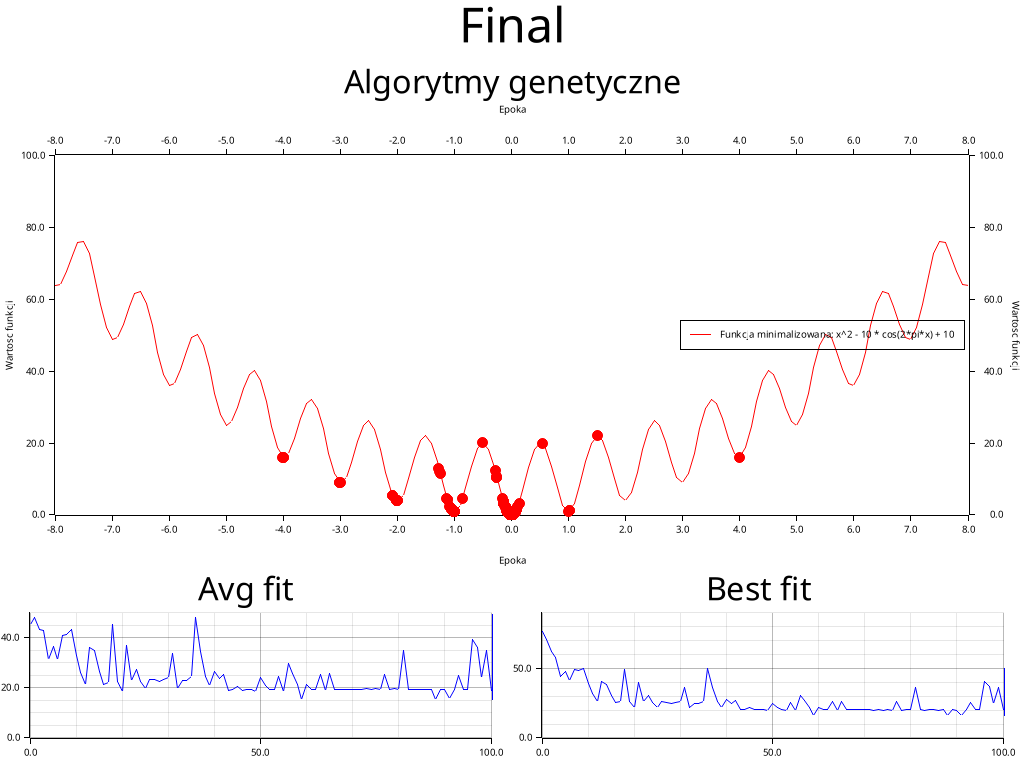
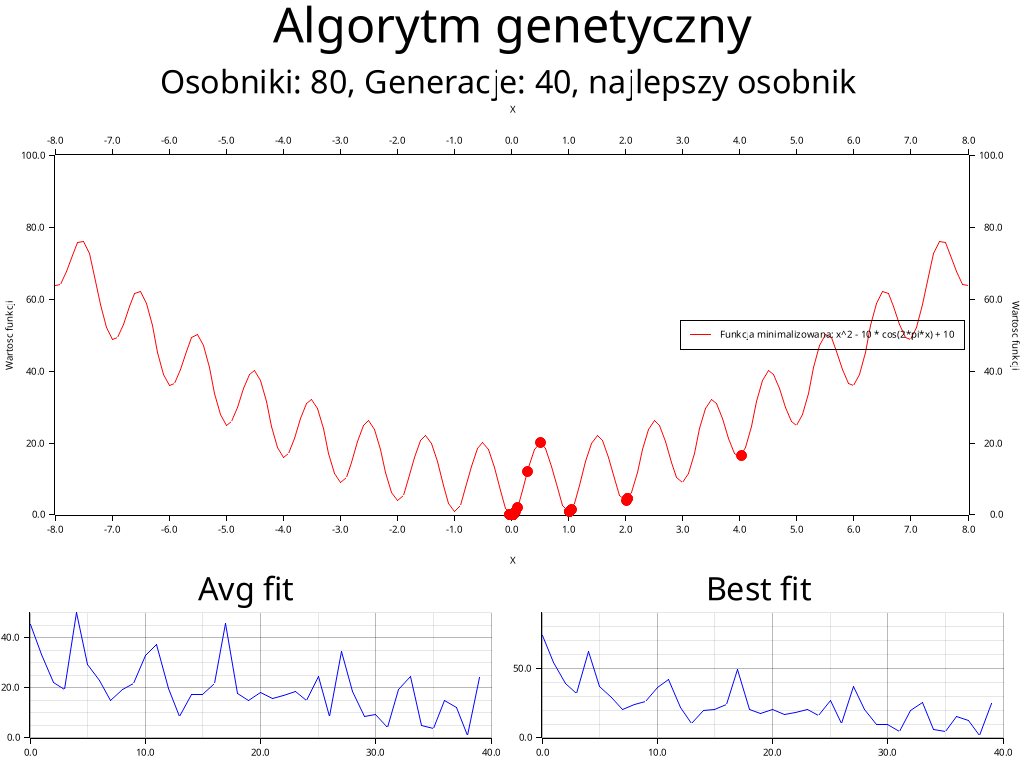
update

diff --git a/sztuczna_inteligencja/genetical/src/main.rs b/sztuczna_inteligencja/genetical/src/main.rs
@@ -1,5 +1,5 @@
 use core::panic;
-use std::{usize, io};
+use std::usize;
 use meval::{self};
 use rand::Rng;
 use plotters::prelude::*;
@@ -48,12 +48,14 @@ fn segment_gen(val_vec: Vec<f64>) -> Vec<f64>{
 
 #[allow(unused_variables)]
 fn main() -> Result<(), Box<dyn std::error::Error>> {
-    const EPOCHS: i32 = 200;
-    const POPULATION_SIZE: i32 = 500;
+    
+    // CONSTS
+    const EPOCHS: i32 = 40;
+    const POPULATION_SIZE: i32 = 80;
     const GENOMS_SIZE: i32 = 12;
     const PC: f32 = 0.5;
     const PM: f32 = 0.005;
-
+    const DRAW_GIF: bool = true;
 
     let input = dialog::Input::new("Please enter your function")
     .title("Funkcja")
@@ -67,7 +69,8 @@ fn main() -> Result<(), Box<dyn std::error::Error>> {
     // STATS GATHER 
     let mut fit_history: Vec<f64> = Vec::new();
     let mut best_history: Vec<f64> = Vec::new();
-    
+    let root = BitMapBackend::gif("out.gif", (800, 600), EPOCHS as u32)?.into_drawing_area();
+ 
     // println!("{:?}", eval_pop);
     for idx in 0..EPOCHS{
         let abs_max = eval_pop.iter().fold(f64::NAN, |a, &b| (a.abs()).max(b.abs()));
@@ -94,9 +97,10 @@ fn main() -> Result<(), Box<dyn std::error::Error>> {
             }
         }
 
-        // breeding 
+        // BREEDING 
         let mut babies: Vec<Vec<bool>> = chosen.clone();
         // println!("babies: {:?}", &babies);
+
         for _ in 0..POPULATION_SIZE/2{
             let mut rng = rand::thread_rng();
             let two_idx = rand::seq::index::sample(&mut rng, POPULATION_SIZE as usize, 2).into_vec();
@@ -106,6 +110,7 @@ fn main() -> Result<(), Box<dyn std::error::Error>> {
                 // println!("cros");
                 let mut rng = rand::thread_rng();
                 let r = rng.gen_range(1..GENOMS_SIZE) as usize;
+
 
                 let baby1 = [&chosen[two_idx[0]][..r], &chosen[two_idx[1]][r..]].concat();
                 let baby2 = [&chosen[two_idx[1]][..r], &chosen[two_idx[0]][r..]].concat();
@@ -127,19 +132,66 @@ fn main() -> Result<(), Box<dyn std::error::Error>> {
                     babies[k][m] = !babies[k][m];
                 }
             } 
-        }
-        
+        } 
         population = babies;
         eval_pop = eval_population(&function, &population);
+        
+        // GIF DRAWING
+        if DRAW_GIF{
+        root.fill(&WHITE)?;
+        
+
+        let x_axis = (-8f64..8f64).step(0.1);
+
+        let mut cc = ChartBuilder::on(&root)
+            .margin(5)
+            .set_all_label_area_size(50)
+            .caption(format!("Algorytm genetyczne generacja: {}", idx), ("sans-serif", 40))
+            .build_cartesian_2d(-8f64..8f64, -0f64..100f64)?;
+
+        cc.configure_mesh()
+            .x_labels(20)
+            .x_desc("X")
+            .y_labels(10)
+            .y_desc("Wartosc funkcji")
+            .disable_mesh()
+            .x_label_formatter(&|v| format!("{:.1}", v))
+            .y_label_formatter(&|v| format!("{:.1}", v))
+            .draw()?;
+
+        cc.draw_series(LineSeries::new(x_axis.values().map(|x| (x, function(x))), &RED))?
+            .label(format!("Funkcja minimalizowana: {}", input))
+            .legend(|(x, y)| PathElement::new(vec![(x, y), (x+20 , y)], RED));
+
+
+        cc.configure_series_labels().border_style(BLACK).draw()?;
+
+
+        // Otherwise you can use a function to construct your pointing element yourself
+        cc.draw_series(PointSeries::of_element(
+            population.iter().map(|x| (read_value(&x), function(read_value(&x)))),
+            5,
+            ShapeStyle::from(&RED).filled(),
+            &|coord, size, style| {
+                EmptyElement::at(coord)
+                    + Circle::new((0, 0), size, style)
+                    // + Text::new(format!("{:?}", coord), (0, 15), ("sans-serif", 15))
+            },
+        ))?;
+
+
+        root.present()?;
+        }
+
 
     }
 
-
+    
     let root_area = BitMapBackend::new("sample.png", (1024, 768)).into_drawing_area();
 
     root_area.fill(&WHITE)?;
 
-    let root_area = root_area.titled("Final", ("sans-serif", 60))?;
+    let root_area = root_area.titled("Algorytm genetyczny", ("sans-serif", 60))?;
 
     let (upper, lower) = root_area.split_vertically(512);
 
@@ -148,7 +200,7 @@ fn main() -> Result<(), Box<dyn std::error::Error>> {
     let mut cc = ChartBuilder::on(&upper)
         .margin(5)
         .set_all_label_area_size(50)
-        .caption("Algorytmy genetyczne", ("sans-serif", 40))
+        .caption(format!("Osobniki: {}, Generacje: {}, najlepszy osobnik ", POPULATION_SIZE, EPOCHS), ("sans-serif", 40))
         .build_cartesian_2d(-8f64..8f64, -0f64..100f64)?;
 
     cc.configure_mesh()
@@ -168,13 +220,6 @@ fn main() -> Result<(), Box<dyn std::error::Error>> {
 
     cc.configure_series_labels().border_style(BLACK).draw()?;
 
-    /*
-    // It's possible to use a existing pointing element
-     cc.draw_series(PointSeries::<_, _, Circle<_>>::new(
-        (-3.0f32..2.1f32).step(1.0).values().map(|x| (x, x.sin())),
-        5,
-        Into::<ShapeStyle>::into(&RGBColor(255,0,0)).filled(),
-    ))?;*/
 
     // Otherwise you can use a function to construct your pointing element yourself
     cc.draw_series(PointSeries::of_element(
@@ -195,7 +240,7 @@ fn main() -> Result<(), Box<dyn std::error::Error>> {
             .y_label_area_size(30)
             .margin_right(20)
             .caption(format!("Avg fit",), ("sans-serif", 40))
-            .build_cartesian_2d(0f64..100f64, 0f64..50f64)?;
+            .build_cartesian_2d(0f64..EPOCHS as f64, 0f64..50f64)?;
         cc.configure_mesh()
             .x_labels(5)
             .y_labels(3)
@@ -213,7 +258,7 @@ fn main() -> Result<(), Box<dyn std::error::Error>> {
             .y_label_area_size(30)
             .margin_right(20)
             .caption(format!("Best fit", ), ("sans-serif", 40))
-            .build_cartesian_2d(0f64..100f64, 0f64..90f64)?;
+            .build_cartesian_2d(0f64..EPOCHS as f64, 0f64..90f64)?;
         cc.configure_mesh()
             .x_labels(5)
             .y_labels(3)
